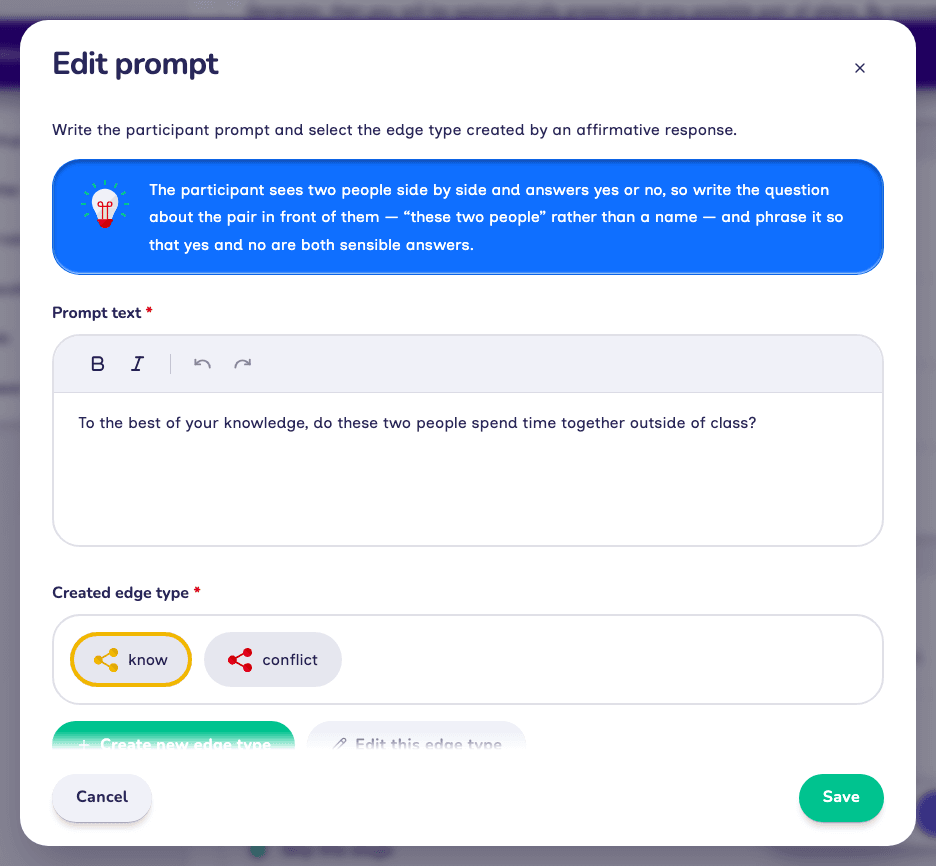
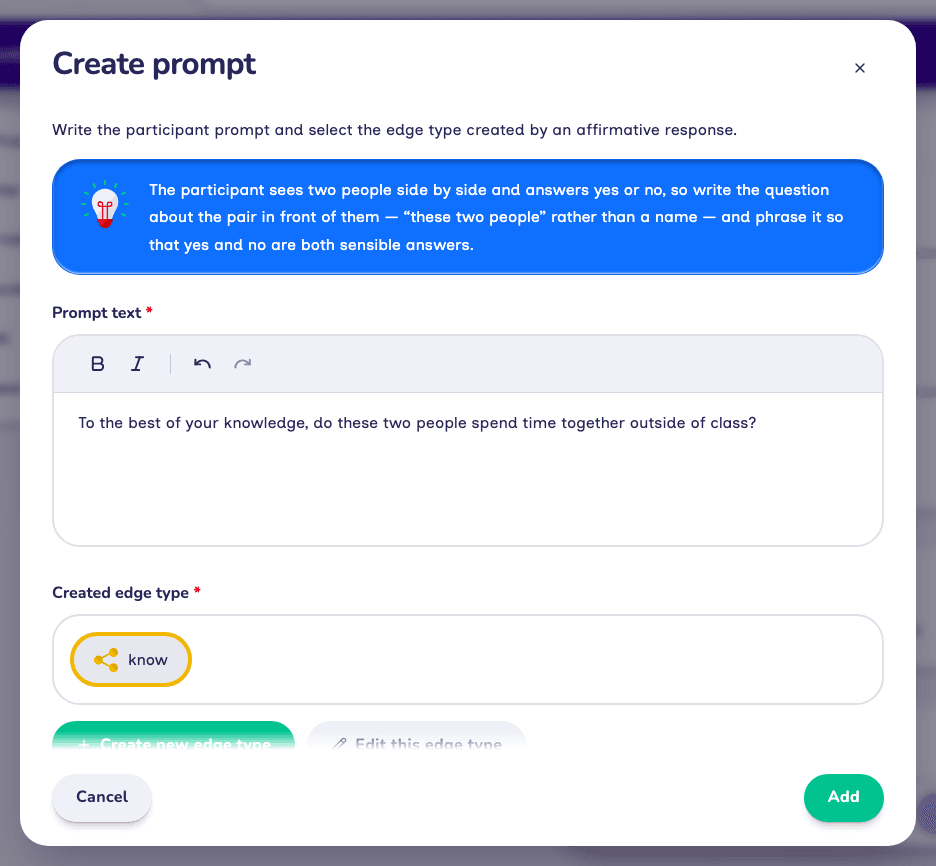
docs: capture the remaining prompts as they are created, and two state fixes
The four prompt dialogs the tutorial creates — attribute toggling, the
dyad census prompt, and both categorical bin prompts — still showed Edit
prompt with a Save button, taken from the finished sample protocol.
Rebuilt each in a scratch protocol along the documented path, so they
read Create prompt with an Add button and carry the tutorial's own
prompt text, attribute and options.

roster-search.png showed the Roster search section switched off, the
opposite of the configuration the walkthrough sets up; it now shows the
four searchable attributes ticked and High accuracy, as the text says.

sociogram-background.png came from the background-image stage while the
text around it configures the first sociogram: concentric circles, three
of them, skewed. Recaptured from that stage.

finish.png shares the pre-8.3 rail with the interview stage captures, so
it joins them on the outstanding list rather than counting as done.

The IT FAQ told institutions there is no data flow to the developers and
used that to dismiss a DPA, which the analytics disclosure on the same
page now contradicts. It separates the two: no interview data reaches
the developers, while enabled analytics do, and says what to do about
each.

diff --git a/apps/documentation/SCREENSHOTS_TO_REGENERATE.md b/apps/documentation/SCREENSHOTS_TO_REGENERATE.md
@@ -17,9 +17,9 @@ protocol imported and six participants and interviews. Interviewer also gained
 `interviewer-guide/interview-settings.png`, a new capture of the in-interview
 settings menu, now shown in Using Interviewer.
 
-One set is still outstanding: the **interview interface stage** captures below
-were taken before 8.3 moved Exit into a settings popover, so they show the old
-rail with an exit icon at the top. `interviewer-ui.png`, which the navigation
+One set is still outstanding: the **interview interface stage** captures below,
+and `finish.png` in the table above, were taken before 8.3 moved Exit into a
+settings popover, so they show the old rail with an exit icon at the top. `interviewer-ui.png`, which the navigation
 walkthrough depends on, has been recaptured; the stage shots need an interview
 driven through the sample protocol with representative data, which is a
 separate pass. Every other row is done.
@@ -43,25 +43,25 @@ directly at `/assets/img/interviewer-guide/`.
 
 **Dashboard / setup / shell:**
 
-| Image (`/assets/img/interviewer-guide/…`) | Screen                                                 | Status                  |
-| ----------------------------------------- | ------------------------------------------------------ | ----------------------- |
-| `start-screen.png`                        | Dashboard (deck + Protocols / Data toggle)             | ✅ Recaptured for 8.3.0 |
-| `protocol-card.png`                       | Protocol card (anatomy + Start new interview button)   | ✅ Captured             |
-| `case-id.png`                             | Case ID entry dialog                                   | ✅ Captured             |
-| `import-protocol.png`                     | Import a protocol dialog (file + URL) — 8 only         | ✅ Captured             |
-| `delete-protocol.png`                     | Delete-protocol confirmation — 8 only                  | ✅ Captured             |
-| `welcome.png`                             | First-run welcome screen — 8 only                      | ✅ Recaptured for 8.3.0 |
-| `setup-intro.png`                         | Setup wizard introduction — 8 only                     | ✅ Recaptured for 8.3.0 |
-| `securing-data.png`                       | Wizard "Securing your data" step — 8 only              | ✅ Recaptured for 8.3.0 |
-| `auth-method.png`                         | Wizard "Choose an authentication method" — 8 only      | ✅ Recaptured for 8.3.0 |
-| `analytics.png`                           | Wizard analytics-preference step — 8 only              | ✅ Recaptured for 8.3.0 |
-| `settings.png`                            | Settings screen — 8 only                               | ✅ Recaptured for 8.3.0 |
-| `interviewer-ui.png`                      | In-interview navigation (rail / bar: up / down / exit) | ✅ Captured             |
-| `finish.png`                              | Finish screen                                          | ✅ Captured             |
-| `finish-confirm.png`                      | Finish confirmation dialog — 8 only                    | ✅ Captured             |
-| `interview-complete.png`                  | Interview-complete screen — 8 only                     | ✅ Captured             |
-| `resume-section.png`                      | The Data page (status, progress, multi-select)         | ✅ Captured             |
-| `lock-screen.png`                         | The lock screen — 8 only                               | ✅ Captured             |
+| Image (`/assets/img/interviewer-guide/…`) | Screen                                                 | Status                                           |
+| ----------------------------------------- | ------------------------------------------------------ | ------------------------------------------------ |
+| `start-screen.png`                        | Dashboard (deck + Protocols / Data toggle)             | ✅ Recaptured for 8.3.0                          |
+| `protocol-card.png`                       | Protocol card (anatomy + Start new interview button)   | ✅ Captured                                      |
+| `case-id.png`                             | Case ID entry dialog                                   | ✅ Captured                                      |
+| `import-protocol.png`                     | Import a protocol dialog (file + URL) — 8 only         | ✅ Captured                                      |
+| `delete-protocol.png`                     | Delete-protocol confirmation — 8 only                  | ✅ Captured                                      |
+| `welcome.png`                             | First-run welcome screen — 8 only                      | ✅ Recaptured for 8.3.0                          |
+| `setup-intro.png`                         | Setup wizard introduction — 8 only                     | ✅ Recaptured for 8.3.0                          |
+| `securing-data.png`                       | Wizard "Securing your data" step — 8 only              | ✅ Recaptured for 8.3.0                          |
+| `auth-method.png`                         | Wizard "Choose an authentication method" — 8 only      | ✅ Recaptured for 8.3.0                          |
+| `analytics.png`                           | Wizard analytics-preference step — 8 only              | ✅ Recaptured for 8.3.0                          |
+| `settings.png`                            | Settings screen — 8 only                               | ✅ Recaptured for 8.3.0                          |
+| `interviewer-ui.png`                      | In-interview navigation (rail / bar: up / down / exit) | ✅ Captured                                      |
+| `finish.png`                              | Finish screen                                          | 🔄 Recapture — pre-8.3 rail (exit icon, no gear) |
+| `finish-confirm.png`                      | Finish confirmation dialog — 8 only                    | ✅ Captured                                      |
+| `interview-complete.png`                  | Interview-complete screen — 8 only                     | ✅ Captured                                      |
+| `resume-section.png`                      | The Data page (status, progress, multi-select)         | ✅ Captured                                      |
+| `lock-screen.png`                         | The lock screen — 8 only                               | ✅ Captured                                      |
 
 **Interview interface stages** (version-swapped — each matches a 6.x shot of the same name in `sample-protocol/`):
 
